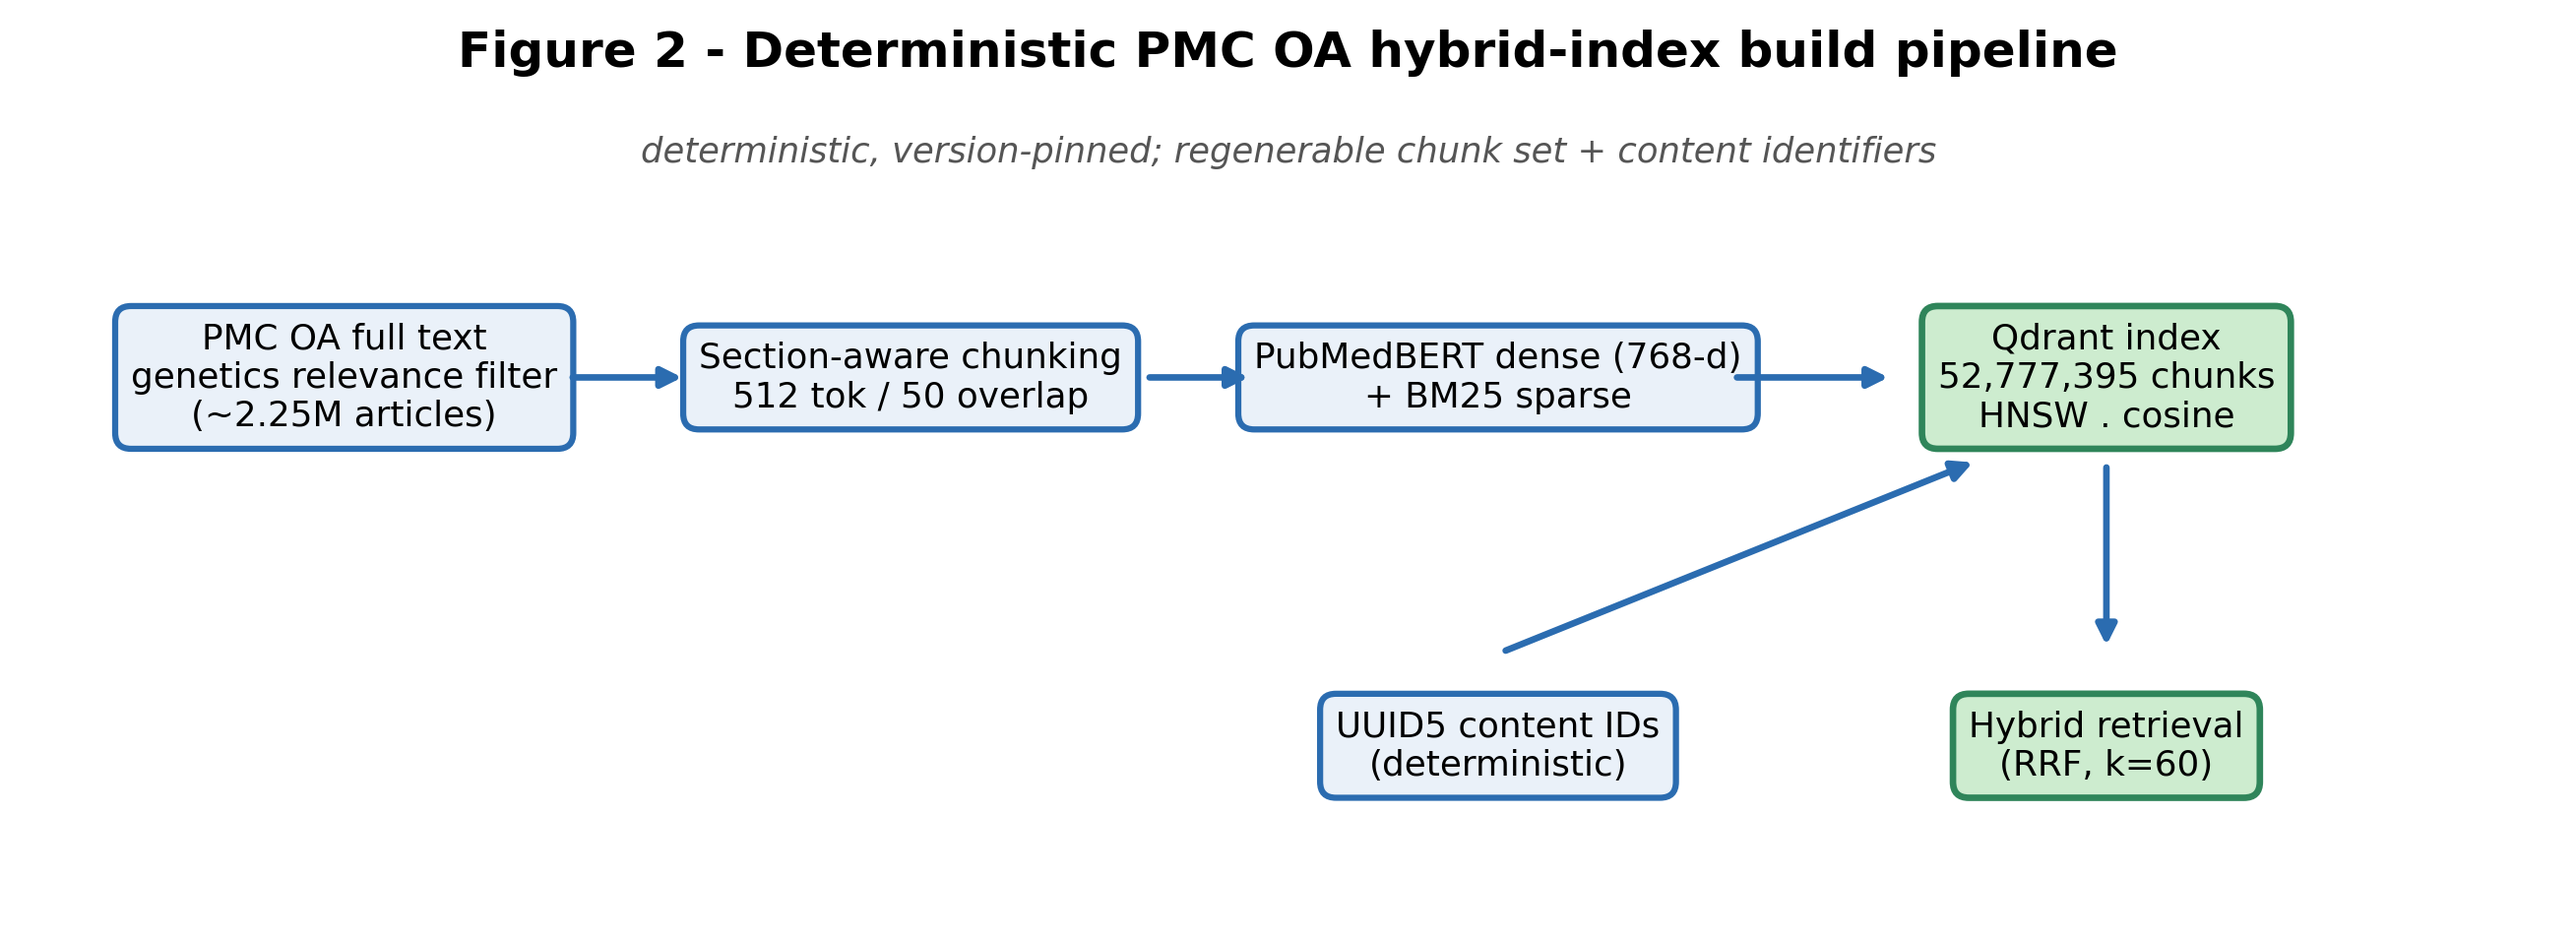
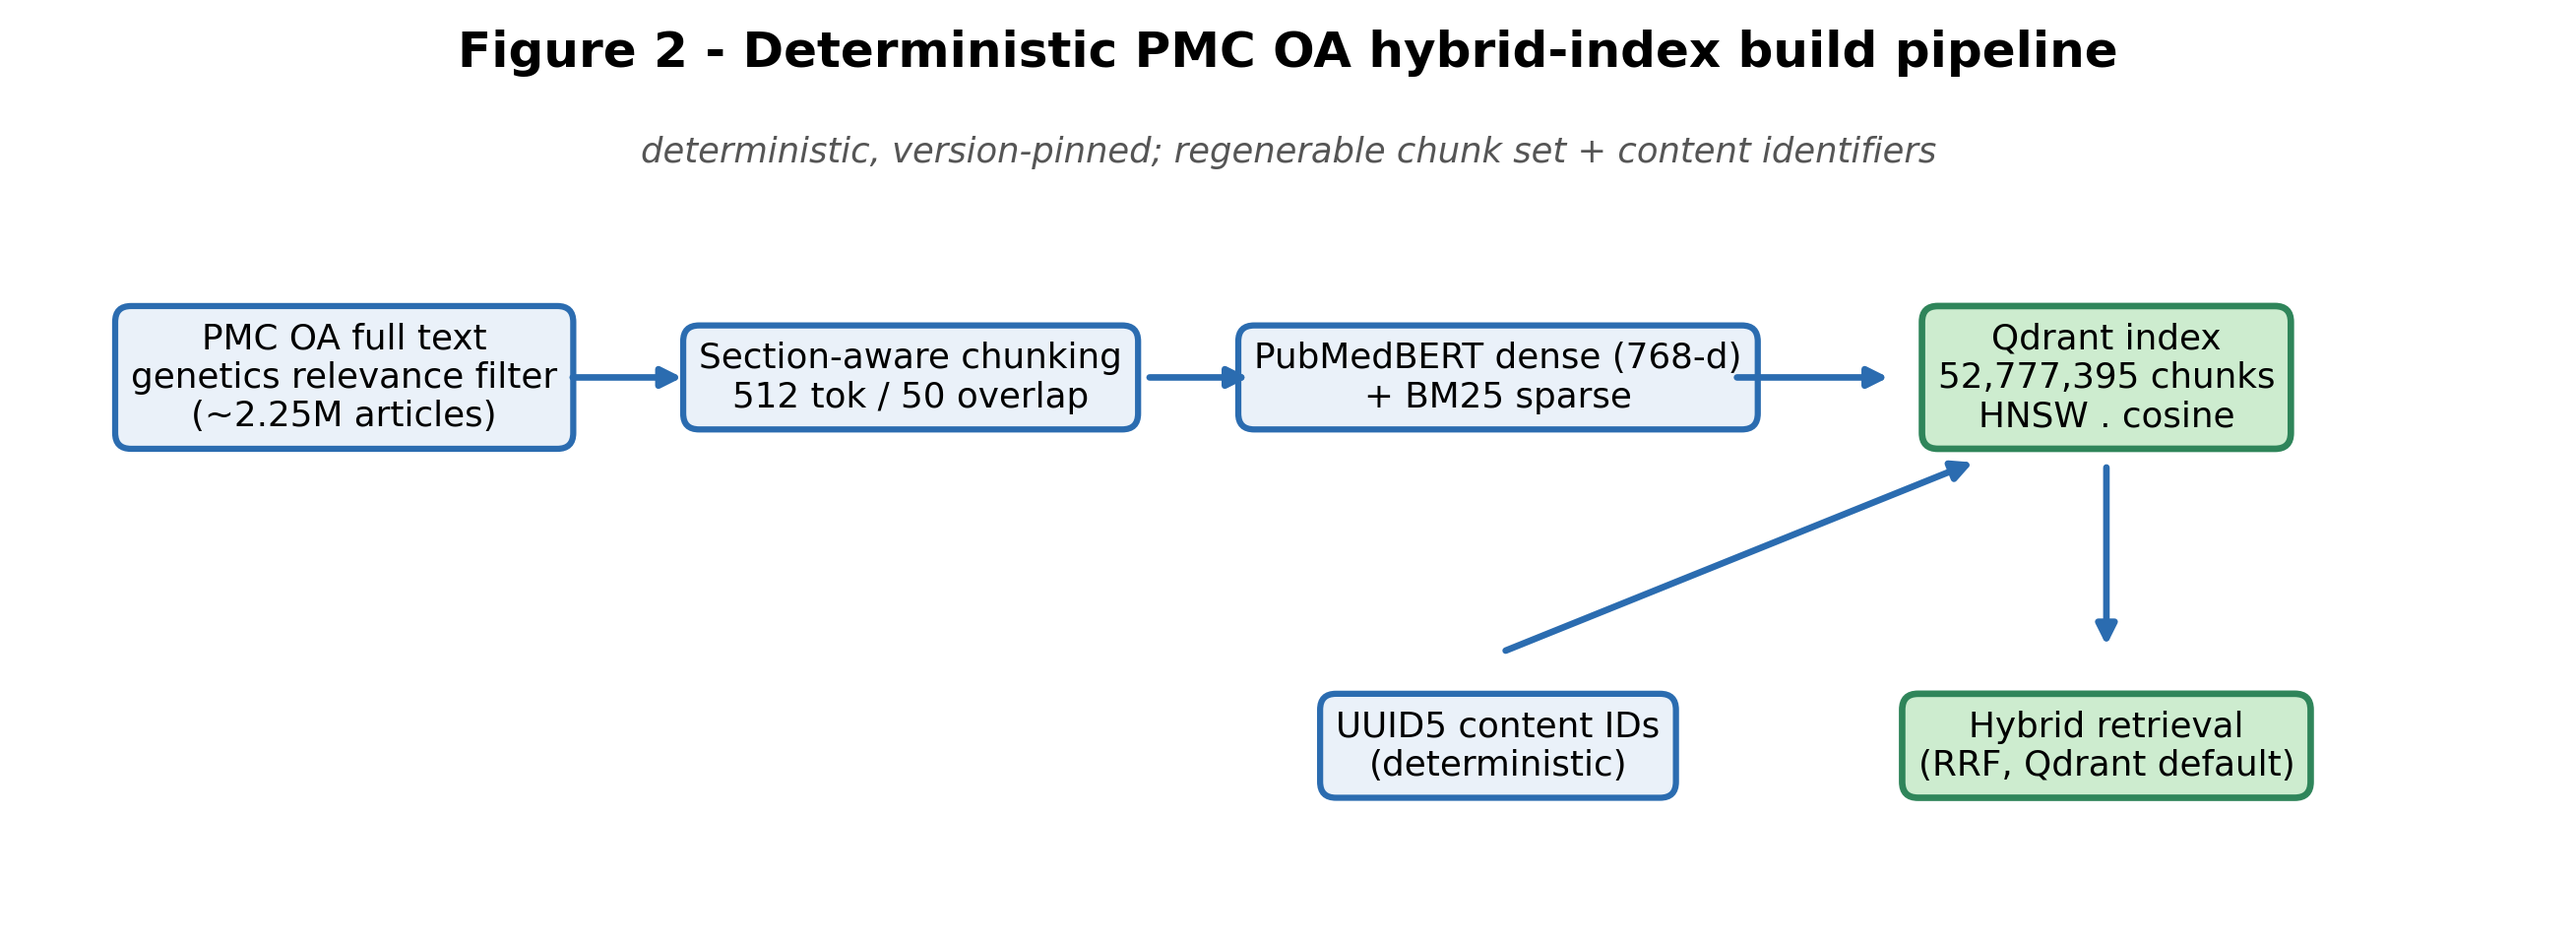
fix(p1): report Qdrant's RRF constant as k=2, not k=60
The pinned qdrant-client 1.14.3 exposes no k on FusionQuery and its reference implementation hard-codes 2, so no measured value changes -- only the label was wrong, in the code, the released validation record and Figure 2.

Changed region(s): [[0.7119, 0.7296, 0.8976, 0.8512]]

diff --git a/scripts/eval/validate_retrieval_substrate.py b/scripts/eval/validate_retrieval_substrate.py
@@ -24,8 +24,13 @@ on the substrate.
 
 The retrieval configuration is the one used to compute the released
 ``pmc_article_count`` descriptor (``scripts/cases/17_validate_pmc_coverage.py``):
-dense PubMedBERT prefetch and BM25 sparse prefetch, each at limit k, fused with
-Reciprocal Rank Fusion (k = 60), matching the parameters tabulated in the paper.
+dense PubMedBERT prefetch and BM25 sparse prefetch, each at limit k, fused by
+Qdrant's built-in Reciprocal Rank Fusion, matching the parameters tabulated in
+the paper. The fusion constant is the engine default: on the pinned Qdrant
+v1.14.1 ``models.FusionQuery(fusion=models.Fusion.RRF)`` takes no ``k`` argument
+and scores ``1/(2 + rank)`` over zero-based ranks. A settable ``k`` arrived in
+Qdrant server v1.16.0. Earlier revisions of this docstring claimed ``k = 60``,
+which neither the pinned server nor ``qdrant-client==1.14.3`` could express.
 
 Prerequisites: a running Qdrant v1.14.1 with the ``geno_agent_pmc_oa_v1``
 collection, and network access to the NCBI ID Converter API.
@@ -397,7 +402,8 @@ def main() -> int:
             "engine": "Qdrant v1.14.1",
             "retrieval": (
                 "hybrid: dense PubMedBERT prefetch (limit 100) + BM25 sparse "
-                "prefetch (limit 100), fused by Reciprocal Rank Fusion (k=60); "
+                "prefetch (limit 100), fused by Qdrant built-in Reciprocal "
+                "Rank Fusion (engine constant k=2, zero-based ranks); "
                 "identical to the configuration used for pmc_article_count"
             ),
             "dense_model": "NeuML/pubmedbert-base-embeddings@b79526d6ef3645e0df4530322e266f24c829f5ef",

diff --git a/scripts/cases/17_validate_pmc_coverage.py b/scripts/cases/17_validate_pmc_coverage.py
@@ -16,8 +16,11 @@ Decision rule per master plan §4.2.1:
 
 Inputs::
 
-    data/test_cases/04_sampled.jsonl     (75 stratified cases)
-    data/test_cases/03_categorized.jsonl (2,971-row replacement pool)
+    data/test_cases/04_sampled.jsonl     (the stratified sample; 1,050 rows
+                                          for the released n = 1,047 cohort)
+    data/test_cases/03_categorized.jsonl (the categorised eligible pool that
+                                          replacements are drawn from; 4,670
+                                          rows for the released cohort)
 
 Output::
 
@@ -103,7 +106,9 @@ def gene_pmc_count(
     """Return (distinct_pmcid_count, distinct_pmcids) for a hybrid query.
 
     Hybrid retrieval: dense PubMedBERT prefetch (k) + BM25 sparse prefetch (k),
-    fused with RRF, top-k returned. Distinct PMCIDs counted from the payload.
+    fused by Qdrant's built-in RRF (engine constant k=2 over zero-based ranks;
+    not configurable on the pinned v1.14.1), top-k returned. Distinct PMCIDs
+    counted from the payload.
     BM25 query uses ``.query_embed()`` (TF only, IDF lives on server).
     """
     q_dense = dense_model.encode(gene_symbol, normalize_embeddings=True).tolist()

diff --git a/scripts/manuscript/render_p1_figures.py b/scripts/manuscript/render_p1_figures.py
@@ -349,7 +349,7 @@ pb(4.2, 2.6, "Section-aware chunking\n512 tok / 50 overlap", PB)
 pb(7.0, 2.6, "PubMedBERT dense (768-d)\n+ BM25 sparse", PB)
 pb(9.9, 2.6, "Qdrant index\n52,777,395 chunks\nHNSW . cosine", PG)
 pb(7.0, 0.8, "UUID5 content IDs\n(deterministic)", PB)
-pb(9.9, 0.8, "Hybrid retrieval\n(RRF, k=60)", PG)
+pb(9.9, 0.8, "Hybrid retrieval\n(RRF, Qdrant default)", PG)
 ar(2.55, 2.6, 3.15, 2.6)
 ar(5.3, 2.6, 5.85, 2.6)
 ar(8.1, 2.6, 8.9, 2.6)
